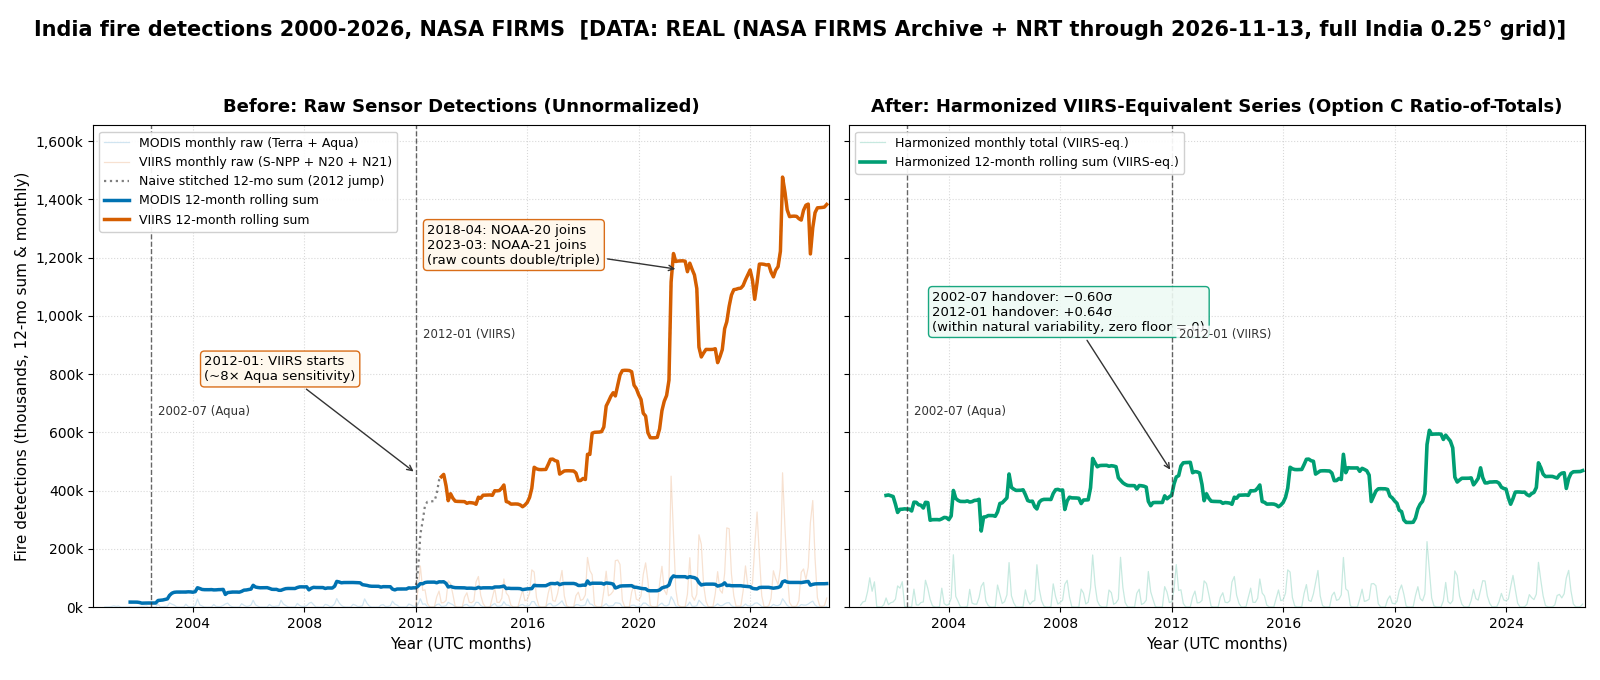
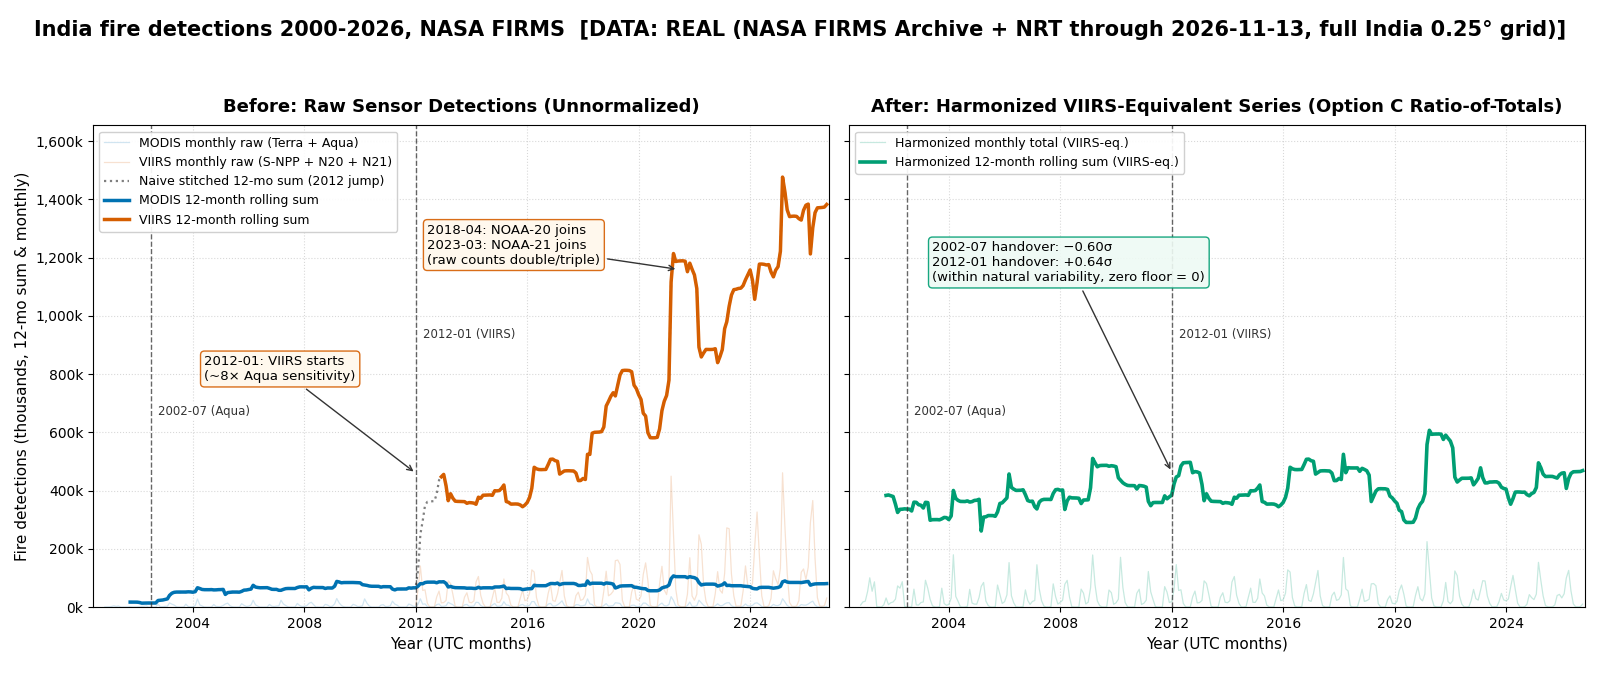
feat: add hero figure script and generated image comparing raw vs harmonized sensor data

Changed region(s): [[0.5625, 0.3397, 0.75, 0.525]]

diff --git a/science/hero_figure.py b/science/hero_figure.py
@@ -88,7 +88,7 @@ def build_hero(run_dir: Path, out_path: Path) -> None:
     ax2.set_title("After: Harmonized VIIRS-Equivalent Series (Option C Ratio-of-Totals)", fontsize=13, fontweight="bold", pad=10)
 
     ax2.annotate("2002-07 handover: −0.60σ\n2012-01 handover: +0.64σ\n(within natural variability, zero floor = 0)",
-                 xy=(pd.Timestamp("2012-01-01"), 464), xytext=(pd.Timestamp("2003-06-01"), 950),
+                 xy=(pd.Timestamp("2012-01-01"), 464), xytext=(pd.Timestamp("2003-06-01"), 1120),
                  arrowprops=dict(arrowstyle="->", color=C_LINE, lw=1.0),
                  fontsize=9.5, bbox=dict(boxstyle="round,pad=0.3", fc="#EEFAF4", ec=C_HARM, alpha=0.9))
 
